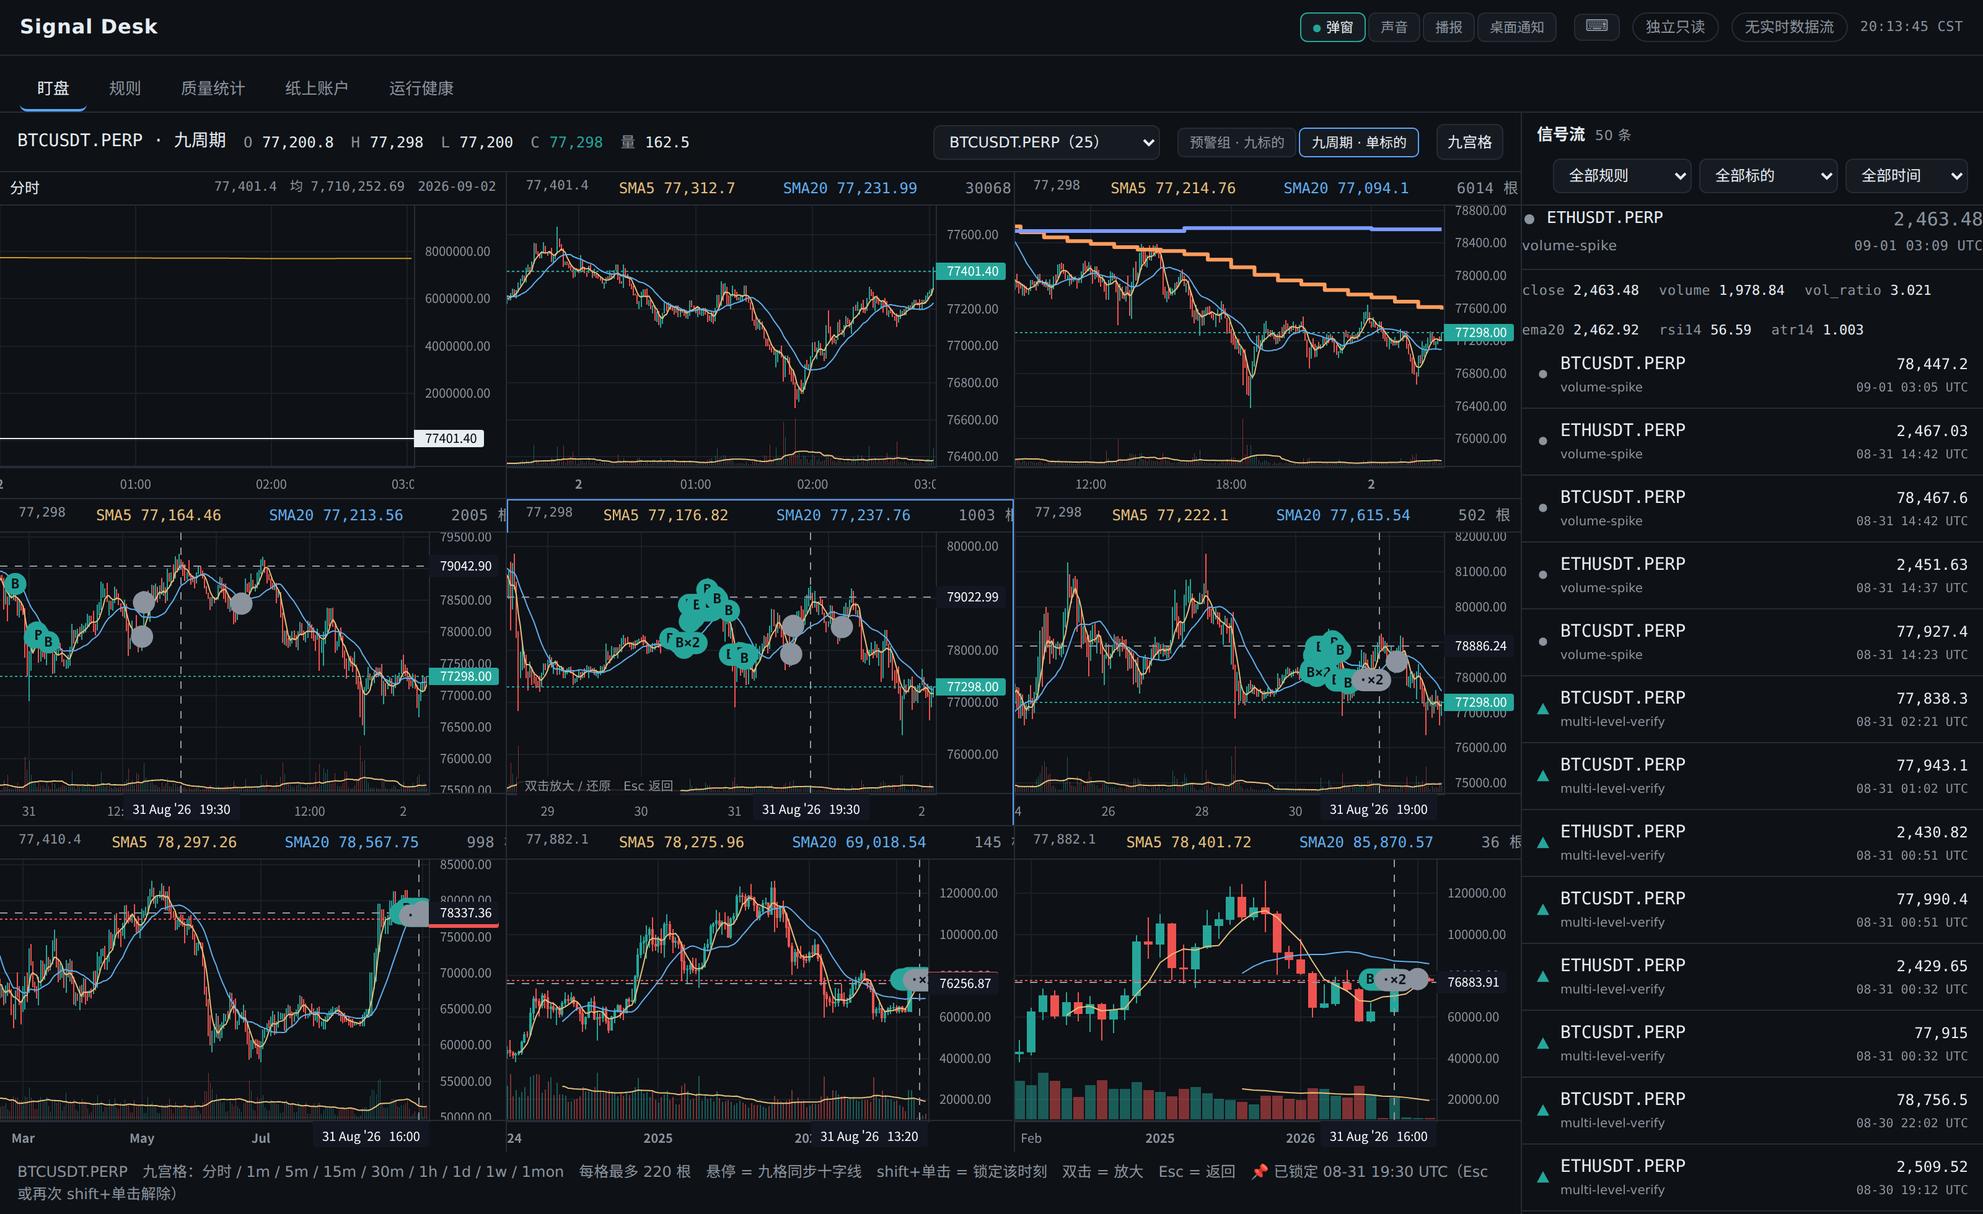
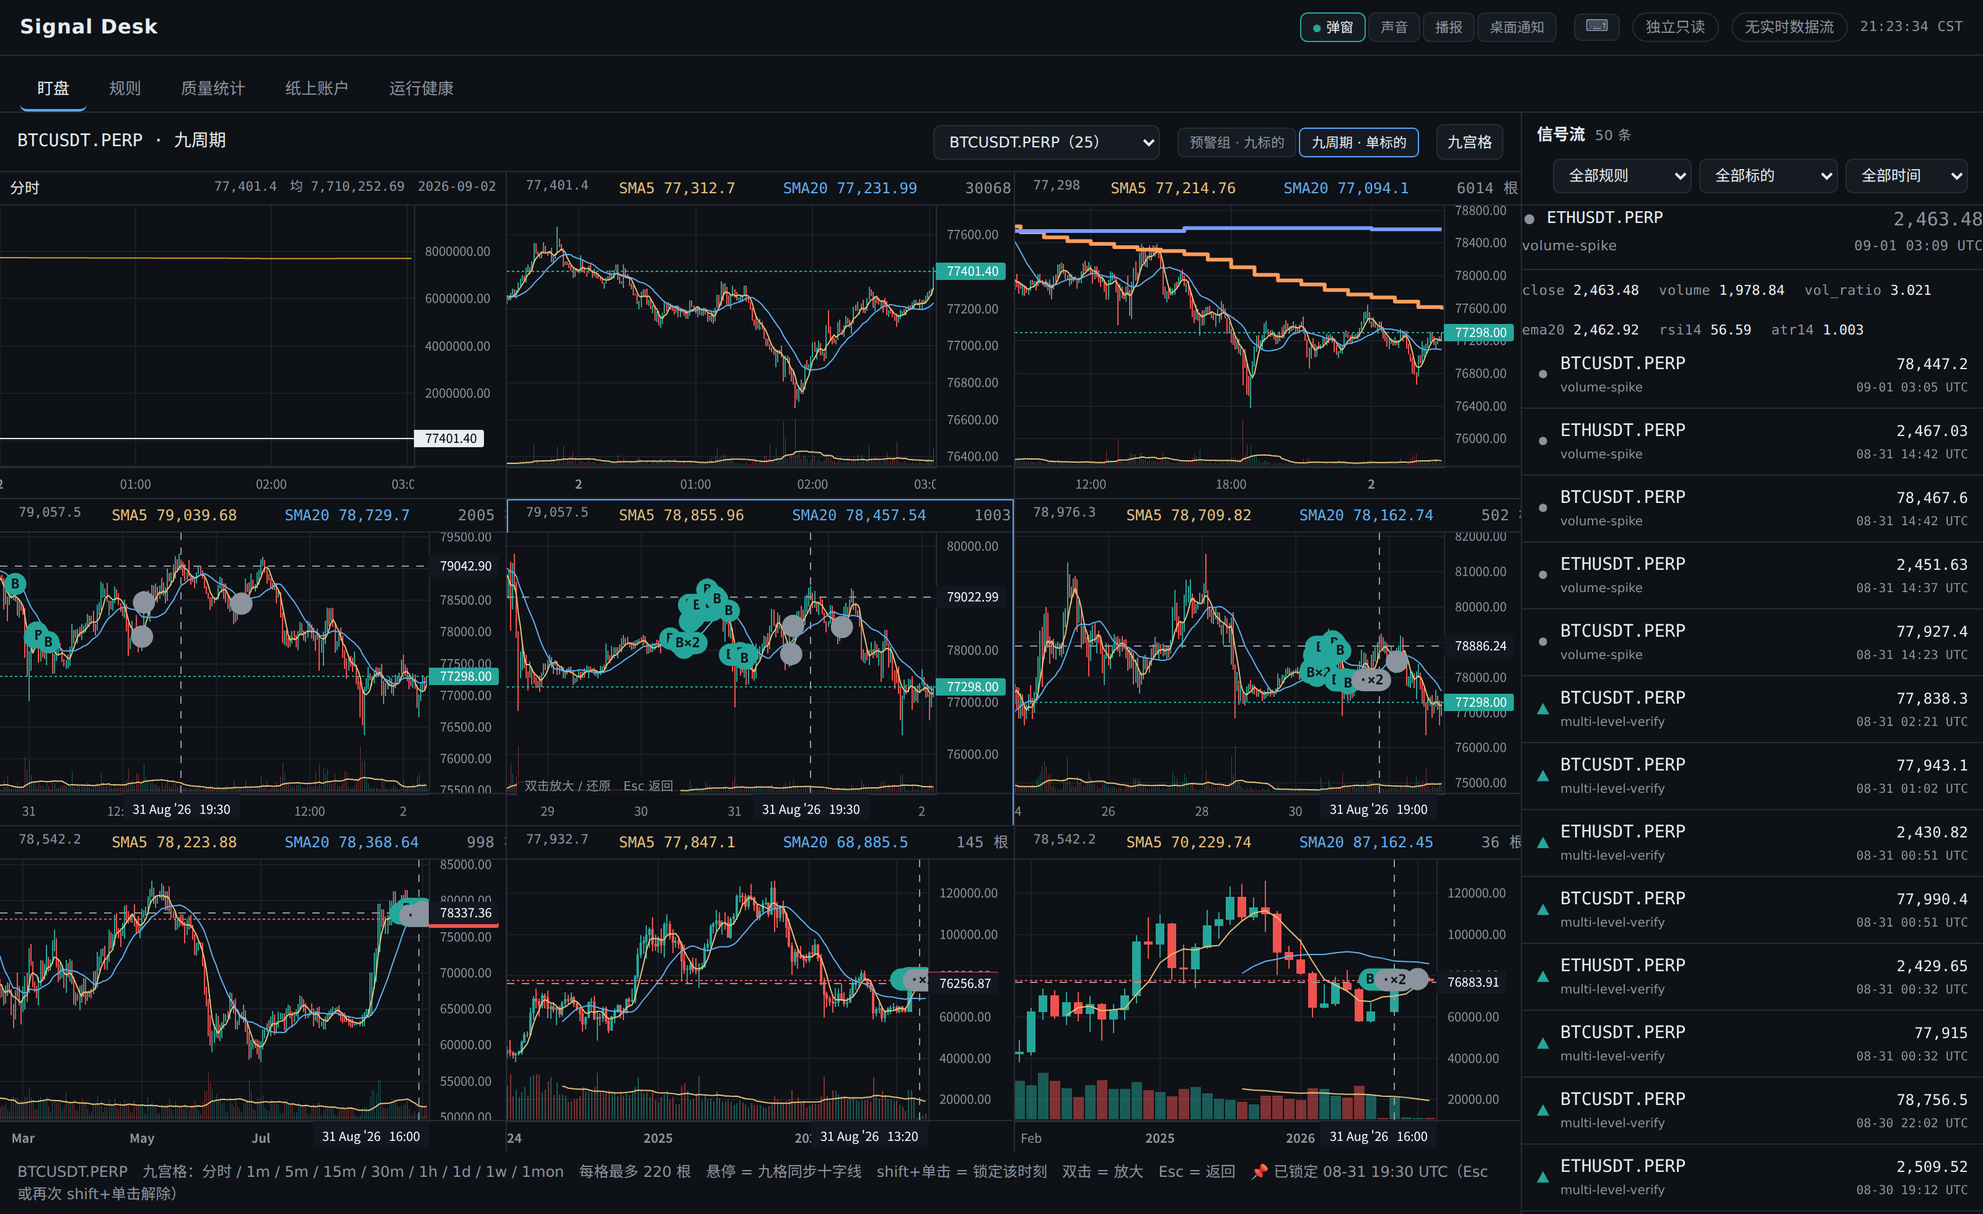
fix(web): 读数跟十字线走；预警组顶部读数清空；行情定时刷；放大带走标的
用户连报四条，都成立，其中三条互相关联（都是"这个读数到底是谁的"）。

## ① 格子读数不跟十字线走

线画在三小时前、数字还是最新收盘 —— 十字线在说"我在看这一刻"，数字在说"现在"。
单图早就跟着走（renderOhlc），九宫格一直没跟，两边不一致。

两条路径都要补，而且**第二条容易漏**：
- 自己被鼠标悬停 -> 从 `param.seriesData` 取；
- **被同步过来 -> `seriesData` 是空的**（setCrosshairPosition 触发的回调里没有），
  只能按 bar 索引自己查。第一版只做了前者，于是"悬停那格跟上了、
  被同步的八格还是旧数字"，比不同步更糊涂。

## ② 预警组顶部的 OHLC/成交量没有意义

九格是九个品种，顶部一个读数说不清是谁的。标题早就是模式感知的
（"加密预警组 · 5m"），只有 #ohlc 没跟上。改为在预警组模式清空。
（九周期模式那里本来就是空的 —— loadGrid 从不写 #ohlc，不是这次改坏的。）

## ③ 盘中价格和成交量不动

SSE 只推 `hello` / `signal` 两种事件，所以**只有新信号到达时才会重拉行情**。
一个盯盘面板不该是这样。加 30 秒定时刷新，两条纪律缺一不可：

- **保住当前可视区间** —— loadChart/loadCell 收尾会 fitContent，
  直接复用会让人每隔半分钟被拽回默认视野，比不刷还难受；
- **页面不可见时不刷** —— 切到别的标签页还每半分钟打十几个请求纯属浪费。

真机验过：手动缩放到 [200,320] 后刷新，区间**逐值不变**；document.hidden 时 0 个请求。

## ④ 预警组放大某格再切九周期，展示的不是那个标的

九周期用的是 `S.symbol`，而放大预警组的格子并不改它。
**放大 = "我要看的就是这个"**，现在会把该格标的设成当前标的，下拉框与标题一起跟上。
真机验过：放大 BTC 那格 -> 切九周期 -> 展示的就是 BTC。

839 测试全绿（+4），ruff/mypy 干净，离线验收 49/49，截图已刷新。

Claude-Session: https://claude.ai/code/session_01StaFvqArU2DTk7UbXubU3U

diff --git a/src/sigdesk/web/static/app.js b/src/sigdesk/web/static/app.js
@@ -371,6 +371,38 @@ const chartTime = (ts, uid) => ts + (isCrypto(uid) ? 0 : 8 * 3600);
 /* 左上角那行标题。**三种视图各写各的会漏**：网格模式走 loadGrid / loadWatch，
    根本不经过 loadChart，于是切换标的后标题一直停在上一个（用户报的 bug）。
    收成一个函数，凡是换了"现在在看什么"的地方都调它。 */
+/* 定时刷行情。
+
+   **原来只有信号到达时才刷**（SSE 只推 hello / signal 两种事件），
+   于是盘中价格和成交量纹丝不动 —— 一个盯盘面板不该是这样（用户报的）。
+
+   两条纪律：
+   - **必须保住当前的可视区间**。`loadChart`/`loadCell` 收尾都会 fitContent，
+     直接复用会让用户每隔半分钟被拽回默认视野，比不刷还难受。
+   - **页面不可见时不刷**。切到别的标签页还每半分钟打十几个请求纯属浪费。 */
+const REFRESH_MS = 30000;
+
+function keepView(chart, fn) {
+  const range = chart.timeScale().getVisibleLogicalRange();
+  return Promise.resolve(fn()).then(() => {
+    if (range) chart.timeScale().setVisibleLogicalRange(range);
+  });
+}
+
+async function refreshMarket() {
+  if (document.hidden) return;
+  if ($("#view-live") && !$("#view-live").classList.contains("active")) return;
+  try {
+    if (G.on) {
+      await Promise.all(activeCells().map((c) => keepView(c.chart, () => loadCell(c))));
+    } else if (S.symbol && S.chart) {
+      await keepView(S.chart, () => loadChart(S.selected ? S.selected.fired_at : null));
+    }
+  } catch {
+    // 刷新失败不该打断盯盘 —— 下一轮再试。真正的连通性问题「运行健康」页会说。
+  }
+}
+
 function setChartTitle() {
   const el = $("#chart-sym");
   if (!el) return;
@@ -378,6 +410,9 @@ function setChartTitle() {
   if (G.mode === "watch") {
     const m = (G.wl?.markets || []).find((x) => x.key === G.market);
     el.textContent = `${m ? m.label : ""}预警组 · ${G.wtf}`;
+    // **顶部读数在这里没有意义**：九格是九个品种，一个 OHLC/成交量说不清是谁的
+    // （用户报的）。每格自己的头部已经有读数，且跟着十字线走。
+    $("#ohlc").innerHTML = "";
   } else {
     el.textContent = `${shortSym(S.symbol)} · 九周期`;
   }
@@ -1663,6 +1698,9 @@ function makeCell(map, key, tf, headHtml) {
   // 悬停即同步：在任意一格移动，其余八格显示**同一时刻**的十字线。
   // 这正是"看大做小"要的 —— 一眼看清同一刻各级别长什么样。
   chart.subscribeCrosshairMove((param) => {
+    // **读数总是更新**，哪怕这一格是被同步过来的 —— 否则同步来的十字线
+    // 只是一条线，旁边的数字还停在"最新"，看着比不同步更糊涂。
+    paintCellHover(cell, param);
     if (G.syncing) return;              // 防回环：下面的 setCrosshairPosition 会再触发本回调
     if (G.pinned !== null) return;      // 已锁定就别被鼠标带跑
     syncCrosshair(param.time ?? null, key);
@@ -1719,6 +1757,45 @@ const PIN_SVG = `<svg width="11" height="11" viewBox="0 0 16 16" fill="none"
  * **跨周期要对齐到"包含该时刻的那根 bar"** —— 1m 上的 10:03 在 1d 上不是一根 bar，
  * 直接把原时刻塞给日线图，十字线要么不显示要么落在错的位置。
  * 取"最后一根 time <= 目标"的 bar，就是包含它的那根。 */
+/* 格子头部：收盘价 + 各条均线在**同一时刻**的值 + 根数。
+   悬停与默认共用这一份拼法 —— 两处各拼一遍迟早长得不一样。 */
+function cellHead(closeTxt, values, legend, tail) {
+  return `${closeTxt}　`
+    + legend.map((l, i) => [l, values[i]])
+        .filter(([, v]) => v !== null && v !== undefined)
+        .map(([l, v]) => `<span style="color:${l.color}">${esc(l.label)} ${num(v)}</span>`)
+        .join("　")
+    + (tail || "");
+}
+
+/* 按 bar 索引刷这一格的读数。同步过来的十字线走这条 —— 它拿不到 seriesData。 */
+function paintCellAt(cell, i) {
+  if (!cell.head || !cell.headDefault || !cell.bars || !cell.bars[i]) return;
+  cell.head.innerHTML = cellHead(
+    num(cell.bars[i].close),
+    (cell.maValues || []).map((vs) => vs[i]),
+    cell.headLegend || [], cell.headTail);
+}
+
+/* 十字线移到哪，头部就读哪一刻。
+
+   **不做这件事的话十字线是误导的**：线画在三小时前，数字却还是最新收盘
+   （单图早就跟着走了，九宫格一直没跟 —— 两边不一致）。
+   移开鼠标（param.time 为空）就恢复默认那份。 */
+function paintCellHover(cell, param) {
+  if (!cell.head || !cell.headDefault) return;
+  const t = param && param.time;
+  if (!t || !param.seriesData) { cell.head.innerHTML = cell.headDefault; return; }
+  const bar = param.seriesData.get(cell.series);
+  if (!bar) { cell.head.innerHTML = cell.headDefault; return; }
+  const close = bar.close ?? bar.value;
+  const vals = (cell.maSeries || []).map((sr) => {
+    const d = param.seriesData.get(sr);
+    return d ? (d.value ?? d.close) : undefined;
+  });
+  cell.head.innerHTML = cellHead(num(close), vals, cell.headLegend || [], cell.headTail);
+}
+
 function syncCrosshair(time, sourceKey) {
   G.syncing = true;
   try {
@@ -1727,15 +1804,24 @@ function syncCrosshair(time, sourceKey) {
     // 按 tf 比对的话预警组九格 tf 相同，会被当成"源格子"全部跳过 —— 两个都错。
     for (const c of activeCells()) {
       if (c.key === sourceKey) continue;   // 源格子由图表自己画，别覆盖
-      if (time === null || !c.points.length) { c.chart.clearCrosshairPosition(); continue; }
+      if (time === null || !c.points.length) {
+        c.chart.clearCrosshairPosition();
+        if (c.head && c.headDefault) c.head.innerHTML = c.headDefault;
+        continue;
+      }
       let lo = 0, hi = c.points.length - 1, found = -1;
       while (lo <= hi) {
         const mid = (lo + hi) >> 1;
         if (c.points[mid].time <= time) { found = mid; lo = mid + 1; } else { hi = mid - 1; }
       }
-      if (found < 0) { c.chart.clearCrosshairPosition(); continue; }
+      if (found < 0) {
+        c.chart.clearCrosshairPosition();
+        if (c.head && c.headDefault) c.head.innerHTML = c.headDefault;
+        continue;
+      }
       const p = c.points[found];
       c.chart.setCrosshairPosition(p.value, p.time, c.series);
+      paintCellAt(c, found);           // 线和数字要一起走，见 paintCellHover 的注释
     }
   } finally {
     G.syncing = false;
@@ -1787,6 +1873,18 @@ function zoomCell(key) {
     G.zoomed = next;
     grid.classList.add("zoomed");
     for (const c of activeCells()) c.root.classList.toggle("big", c.key === next);
+    // **在预警组里放大一格 = "我要看的就是这个标的"**，把它设成当前标的。
+    // 不设的话，切到九周期看到的还是下拉框里那个旧标的 —— 明明刚放大了 ETH，
+    // 切过去却是别的品种（用户报的）。顺带让下拉框和标题跟上。
+    if (G.mode === "watch") {
+      const cell = G.wcells.get(next);
+      if (cell && cell.symbol && cell.symbol !== S.symbol) {
+        S.symbol = cell.symbol;
+        const sel = $("#c-symbol");
+        if (sel) sel.value = cell.symbol;
+        setChartTitle();
+      }
+    }
   }
   // 尺寸变了必须显式重算 —— 图表不会自己跟随容器
   requestAnimationFrame(() => {
@@ -1877,12 +1975,15 @@ async function loadCell(cell) {
   const legend = drawOverlays(cell.chart, cell.series, data,
     { maStore: "maSeries", volume: cell.volume, host: cell, symbol: uid });
   const last = data.bars.at(-1);
-  // 均线值写进格子标题：小格子里挤不下图例，但不写就不知道哪条是哪条
-  cell.head.innerHTML = `${num(last.close)}　`
-    + legend.filter((l) => l.value !== null && l.value !== undefined)
-        .map((l) => `<span style="color:${l.color}">${esc(l.label)} ${num(l.value)}</span>`)
-        .join("　")
-    + `　<span class="lbl">${data.total} 根</span>`;
+  // 均线值写进格子标题：小格子里挤不下图例，但不写就不知道哪条是哪条。
+  // **存一份"默认头部"**：鼠标移开时恢复它，悬停时换成那一刻的值。
+  cell.headLegend = legend;
+  // 逐根的均线值，与 cell.bars 一一对齐 —— **同步过来的十字线取不到 seriesData**
+  // （setCrosshairPosition 触发的回调里它是空的），只能按索引自己查
+  cell.maValues = (data.ma || []).map((m) => m.values);
+  cell.headTail = `　<span class="lbl">${data.total} 根</span>`;
+  cell.headDefault = cellHead(num(last.close), legend.map((l) => l.value), legend, cell.headTail);
+  cell.head.innerHTML = cell.headDefault;
   cell.chart.timeScale().fitContent();
 }
 
@@ -2946,6 +3047,7 @@ async function boot() {
   if (S.meta.live) connectSSE();
   await refreshBadges();
   setInterval(refreshBadges, 15000);
+  setInterval(refreshMarket, REFRESH_MS);
   // **时钟走市场时间（CST），不是 UTC。** 原来显示 `toISOString()` 的 UTC 时间，
   // 比国内用户的墙上钟慢 8 小时，而面板上期货的每个时间戳都是 CST —— 全屏就这一个
   // 表跟别人不一致。用 UTC+8 硬算（与 chartTime/fmtTime 同一口径），不依赖本机时区设置：

diff --git a/tests/test_panel_js.py b/tests/test_panel_js.py
@@ -1251,3 +1251,72 @@ def test_keyboard_shortcuts_click_the_real_buttons() -> None:
             assert not re.search(re.escape(name) + r"\s*=(?!=)", seg), (
                 f"{why} 不许自己改 {name} —— 那是按钮的事"
             )
+
+
+def test_cell_readout_follows_the_crosshair() -> None:
+    """**十字线走到哪，格子的数字就读哪一刻。**
+
+    原来线画在三小时前、数字还是最新收盘 —— 十字线在说"我在看这一刻"，
+    数字在说"现在"。单图早就跟着走了（renderOhlc），九宫格一直没跟。
+
+    两条路径都要覆盖：
+    - 自己被鼠标悬停 -> 从 `param.seriesData` 取；
+    - **被同步过来 -> seriesData 是空的**（setCrosshairPosition 触发的回调里没有），
+      只能按 bar 索引自己查，所以 syncCrosshair 里要顺手刷读数。
+    """
+    js = APP.read_text(encoding="utf-8")
+    # **要定位格子那处**，不是单图那处（334 行也有一个 subscribeCrosshairMove）
+    fn = js[js.index("  chart.subscribeCrosshairMove((param) => {"):]
+    fn = fn[: fn.index("});")]
+    assert "paintCellHover" in fn, "悬停要更新自己的读数"
+    assert fn.index("paintCellHover") < fn.index("if (G.syncing) return"), (
+        "读数要在防回环的提前 return **之前**更新，否则被同步的那几格永远不刷"
+    )
+
+    sync = js[js.index("function syncCrosshair("):]
+    sync = sync[: sync.index("\n}\n")]
+    assert "paintCellAt" in sync, "同步过去的格子也要刷读数（拿不到 seriesData）"
+    assert "headDefault" in sync, "清十字线时要恢复默认读数"
+
+
+def test_market_data_refreshes_on_a_timer() -> None:
+    """**原来只有信号到达时才刷行情**（SSE 只推 hello / signal 两种事件），
+    于是盘中价格和成交量纹丝不动 —— 一个盯盘面板不该是这样（用户报的）。
+
+    两条纪律缺一不可：
+    - **保住当前可视区间**：loadChart/loadCell 收尾会 fitContent，
+      直接复用会让用户每隔半分钟被拽回默认视野，比不刷还难受；
+    - **页面不可见时不刷**：切到别的标签页还每半分钟打十几个请求纯属浪费。
+    """
+    js = APP.read_text(encoding="utf-8")
+    assert "setInterval(refreshMarket" in js, "要有定时刷新"
+    fn = js[js.index("async function refreshMarket()"):]
+    fn = fn[: fn.index("\n}\n")]
+    assert "document.hidden" in fn, "页面不可见时要跳过"
+    assert "keepView" in fn, "刷新要保住可视区间"
+
+    keep = js[js.index("function keepView("):]
+    keep = keep[: keep.index("\n}\n")]
+    assert "getVisibleLogicalRange" in keep and "setVisibleLogicalRange" in keep
+
+
+def test_watchlist_hides_the_meaningless_top_readout() -> None:
+    """预警组九格是**九个品种**，顶部一个 OHLC / 成交量说不清是谁的（用户报的）。
+    每格自己的头部已经有读数，且跟着十字线走。"""
+    js = APP.read_text(encoding="utf-8")
+    fn = js[js.index("function setChartTitle()"):]
+    fn = fn[: fn.index("\n}\n")]
+    watch = fn[fn.index('G.mode === "watch"'):]
+    assert '$("#ohlc").innerHTML = ""' in watch, "预警组要清掉顶部读数"
+
+
+def test_zooming_a_watchlist_cell_adopts_its_symbol() -> None:
+    """**在预警组放大一格 = 「我要看的就是这个」。**
+    不把它设成当前标的的话，切到九周期看到的还是下拉框里那个旧标的
+    —— 明明刚放大了 ETH，切过去却是别的品种（用户报的）。"""
+    js = APP.read_text(encoding="utf-8")
+    fn = js[js.index("function zoomCell(key)"):]
+    fn = fn[: fn.index("\n}\n")]
+    assert "G.wcells.get(next)" in fn, "要取被放大那格的标的"
+    assert "S.symbol = cell.symbol" in fn, "要设成当前标的"
+    assert 'sel.value = cell.symbol' in fn, "下拉框也要跟上"

diff --git a/CHANGELOG.md b/CHANGELOG.md
@@ -40,6 +40,21 @@
   误读成「规则在长持有期上更好」。
 
 ### Fixed
+- **格子的读数不跟十字线走**：线画在三小时前、数字还是最新收盘 ——
+  十字线在说「我在看这一刻」，数字在说「现在」。单图早就跟着走（`renderOhlc`），
+  九宫格一直没跟。两条路径都补上：自己被悬停时从 `param.seriesData` 取；
+  **被同步过来时 `seriesData` 是空的**（`setCrosshairPosition` 触发的回调里没有），
+  只能按 bar 索引自己查。
+- **预警组顶部的 OHLC / 成交量没有意义**：九格是九个品种，一个读数说不清是谁的。
+  改为在预警组模式清空 —— 每格自己的头部已经有读数，且跟着十字线走。
+- **盘中价格和成交量不动**：SSE 只推 `hello` / `signal` 两种事件，
+  于是**只有新信号到达时才会重拉行情**，一个盯盘面板不该是这样。
+  加 30 秒定时刷新，两条纪律：**保住当前可视区间**
+  （loadChart/loadCell 收尾会 fitContent，直接复用会让人每半分钟被拽回默认视野）、
+  **页面不可见时不刷**。
+- **预警组里放大某格再切九周期，展示的不是那个标的**：九周期用的是 `S.symbol`，
+  而放大预警组的格子并不改它。放大 = 「我要看的就是这个」，现在会把该格标的
+  设成当前标的，下拉框与标题一起跟上。
 - **放大态下按 `T` 换网格模式仍会灰屏**（上一版只修了点按钮那条路径）。
   根因是 `T` 与 `[`/`]` **另写了一套切换逻辑**，绕过按钮 onclick 里的 `clearZoom()`：
   `G.zoomed` 没清、`.grid.zoomed` 还在而新格子没有 `.big`，九格全被 `display:none`

diff --git a/CLAUDE.md b/CLAUDE.md
@@ -288,6 +288,13 @@ canvas（z-index:1/2）整个盖住就是这样 —— 元素在、文字在、v
   后按用户要求换回分时。**期货最小 1m 且只有轮询（坑#6），秒级要换数据源。**
 - bar 少于 20 根的格子不画信号标注 —— 标注尺寸随 bar 宽度缩放，会被撑到半个格子。
 - **十字线同步**：悬停即九格同步，`shift+单击` 锁定，`Esc` 返回（先解锁再退放大）。
+  **线和数字必须一起走**：被同步过来的格子拿不到 `param.seriesData`
+  （`setCrosshairPosition` 触发的回调里是空的），要按 bar 索引自己查（`paintCellAt`）。
+- **预警组顶部不显示 OHLC/成交量**：九格是九个品种，一个读数说不清是谁的。
+- **预警组放大一格会把该格标的设成 `S.symbol`**（下拉框、标题一起跟）——
+  否则切到九周期看到的还是旧标的。
+- **行情要定时刷**（30s，`refreshMarket`）：SSE 只推 signal，不推 bar，
+  不定时刷的话盘中价格纹丝不动。刷新**必须保住可视区间**、**页面不可见时跳过**。
   跨周期必须对齐到**包含该时刻的那根 bar**（二分找最后一根 `time <= 目标`），
   直接塞原时刻给日线图是错的。设置十字线会再次触发 `crosshairMove`，
   **必须有 `G.syncing` 防回环**，且要在 `finally` 里解锁。
